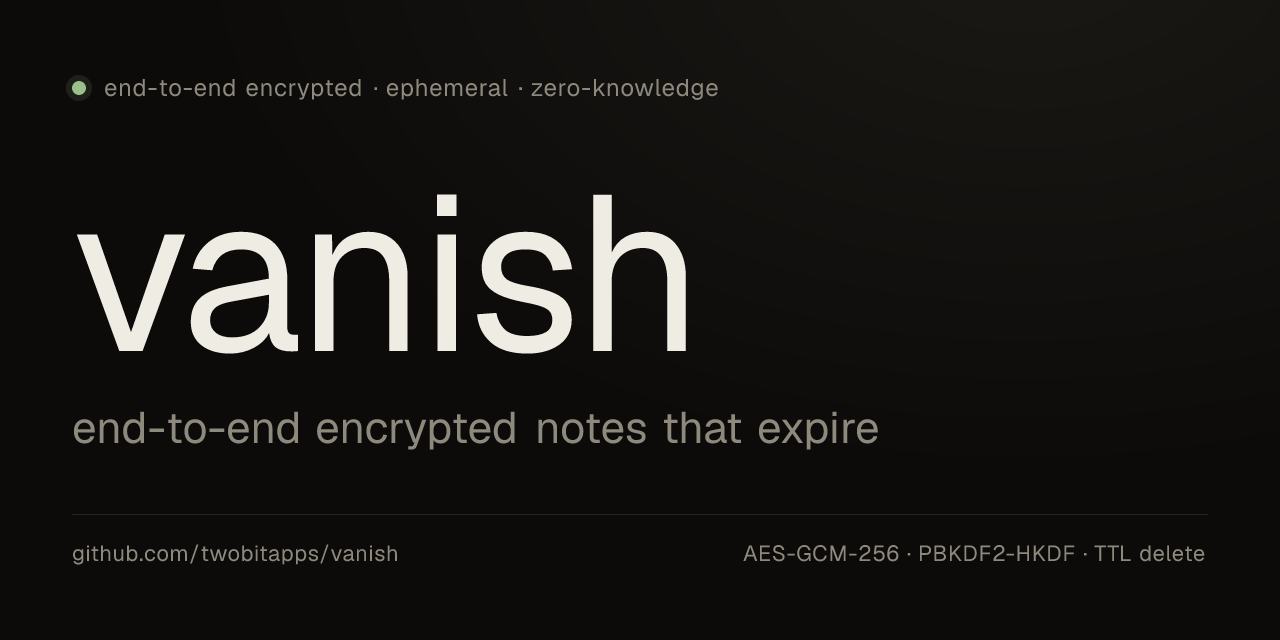
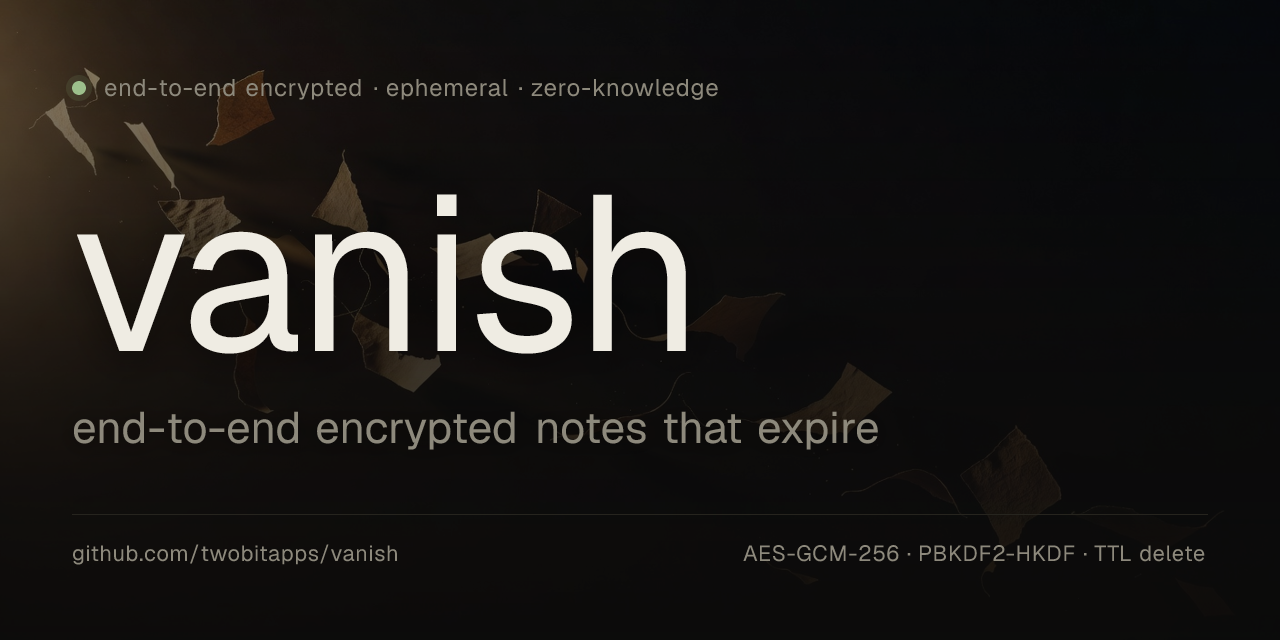
feat(og): composite Grok Imagine AI art into OG cards
- 4 candidate backgrounds generated via xAI Grok Imagine (grok-imagine-image)
  · wisps of warm ink (home)
  · paper fragments blowing apart (github)
  · horizontal warm streaks (security)
  · column of light (terms — unused, kept for future)
- OG route composites: fullbleed bg (opacity 0.78) + dark gradient overlay
  for text legibility, typographic foreground unchanged
- terms card stays typographic-only (appropriate for legal copy)
- /api/og cached s-maxage=3600; no-store limited to mutation/read endpoints

diff --git a/app/api/og/route.tsx b/app/api/og/route.tsx
@@ -12,6 +12,13 @@ const SIZES: Record<Variant, { width: number; height: number }> = {
   terms: { width: 1200, height: 630 },
 };
 
+const BG_FOR_VARIANT: Record<Variant, string | null> = {
+  default: '/art/01-wisps.jpg',
+  github: '/art/02-paper.jpg',
+  security: '/art/03-waves.jpg',
+  terms: null,
+};
+
 function textFor(variant: Variant): { title: string; sub: string; foot: string } {
   switch (variant) {
     case 'github':
@@ -43,12 +50,17 @@ function textFor(variant: Variant): { title: string; sub: string; foot: string }
 
 export async function GET(req: NextRequest) {
   const url = new URL(req.url);
-  const variant = (url.searchParams.get('v') as Variant | null) ?? 'default';
-  const safeVariant: Variant = ['default', 'github', 'security', 'terms'].includes(variant)
-    ? variant
+  const raw = url.searchParams.get('v') ?? 'default';
+  const variant: Variant = (['default', 'github', 'security', 'terms'] as const).includes(
+    raw as Variant
+  )
+    ? (raw as Variant)
     : 'default';
-  const { width, height } = SIZES[safeVariant];
-  const { title, sub, foot } = textFor(safeVariant);
+
+  const { width, height } = SIZES[variant];
+  const { title, sub, foot } = textFor(variant);
+  const bgPath = BG_FOR_VARIANT[variant];
+  const bgUrl = bgPath ? new URL(bgPath, url.origin).toString() : null;
 
   const bg = '#0c0b0a';
   const text = '#efece3';
@@ -59,95 +71,133 @@ export async function GET(req: NextRequest) {
     "'Iowan Old Style', 'Charter', 'Apple Garamond', 'Baskerville', Georgia, serif";
   const mono = 'ui-monospace, SFMono-Regular, Menlo, Monaco, Consolas, monospace';
 
+  const titleSize = variant === 'default' || variant === 'github' ? 220 : 148;
+
   return new ImageResponse(
     (
       <div
         style={{
           width: '100%',
           height: '100%',
+          position: 'relative',
           display: 'flex',
-          flexDirection: 'column',
-          justifyContent: 'space-between',
           backgroundColor: bg,
-          backgroundImage:
-            'radial-gradient(1400px 900px at 80% -10%, #1a1915 0%, #0c0b0a 60%)',
-          padding: 72,
           color: text,
           fontFamily: serif,
         }}
       >
-        <div
-          style={{
-            display: 'flex',
-            alignItems: 'center',
-            gap: 18,
-            color: muted,
-            fontFamily: mono,
-            fontSize: 24,
-            letterSpacing: 0.8,
-          }}
-        >
-          <div
+        {bgUrl ? (
+          <img
+            src={bgUrl}
+            width={width}
+            height={height}
             style={{
-              width: 14,
-              height: 14,
-              borderRadius: 999,
-              backgroundColor: ok,
-              boxShadow: `0 0 0 6px rgba(156,192,140,0.12)`,
+              position: 'absolute',
+              top: 0,
+              left: 0,
+              width: '100%',
+              height: '100%',
+              objectFit: 'cover',
+              opacity: 0.78,
             }}
           />
-          <span>end-to-end encrypted · ephemeral · zero-knowledge</span>
-        </div>
+        ) : null}
+        <div
+          style={{
+            position: 'absolute',
+            top: 0,
+            left: 0,
+            width: '100%',
+            height: '100%',
+            backgroundImage:
+              'linear-gradient(180deg, rgba(12,11,10,0.28) 0%, rgba(12,11,10,0.72) 55%, rgba(12,11,10,0.92) 100%)',
+          }}
+        />
 
         <div
           style={{
+            position: 'relative',
+            width: '100%',
+            height: '100%',
+            padding: 72,
             display: 'flex',
             flexDirection: 'column',
-            gap: 18,
-          }}
-        >
-          <div
-            style={{
-              fontFamily: serif,
-              fontSize: safeVariant === 'default' || safeVariant === 'github' ? 220 : 148,
-              lineHeight: 1,
-              letterSpacing: -4,
-              color: text,
-            }}
-          >
-            {title}
-          </div>
-          <div
-            style={{
-              fontFamily: serif,
-              fontSize: 44,
-              color: muted,
-              lineHeight: 1.2,
-              maxWidth: width - 144,
-            }}
-          >
-            {sub}
-          </div>
-        </div>
-
-        <div
-          style={{
-            display: 'flex',
             justifyContent: 'space-between',
-            alignItems: 'flex-end',
-            fontFamily: mono,
-            fontSize: 22,
-            color: muted,
-            letterSpacing: 0.6,
-            borderTop: `1px solid ${border}`,
-            paddingTop: 24,
           }}
         >
-          <span>{foot}</span>
-          <span>AES-GCM-256 · PBKDF2-HKDF · TTL delete</span>
+          <div
+            style={{
+              display: 'flex',
+              alignItems: 'center',
+              gap: 18,
+              color: muted,
+              fontFamily: mono,
+              fontSize: 24,
+              letterSpacing: 0.8,
+            }}
+          >
+            <div
+              style={{
+                width: 14,
+                height: 14,
+                borderRadius: 999,
+                backgroundColor: ok,
+                boxShadow: `0 0 0 6px rgba(156,192,140,0.12)`,
+              }}
+            />
+            <span>end-to-end encrypted · ephemeral · zero-knowledge</span>
+          </div>
+
+          <div style={{ display: 'flex', flexDirection: 'column', gap: 18 }}>
+            <div
+              style={{
+                fontFamily: serif,
+                fontSize: titleSize,
+                lineHeight: 1,
+                letterSpacing: -4,
+                color: text,
+                textShadow: '0 4px 40px rgba(0,0,0,0.6)',
+              }}
+            >
+              {title}
+            </div>
+            <div
+              style={{
+                fontFamily: serif,
+                fontSize: 44,
+                color: muted,
+                lineHeight: 1.2,
+                maxWidth: width - 144,
+                textShadow: '0 2px 20px rgba(0,0,0,0.6)',
+              }}
+            >
+              {sub}
+            </div>
+          </div>
+
+          <div
+            style={{
+              display: 'flex',
+              justifyContent: 'space-between',
+              alignItems: 'flex-end',
+              fontFamily: mono,
+              fontSize: 22,
+              color: muted,
+              letterSpacing: 0.6,
+              borderTop: `1px solid ${border}`,
+              paddingTop: 24,
+            }}
+          >
+            <span>{foot}</span>
+            <span>AES-GCM-256 · PBKDF2-HKDF · TTL delete</span>
+          </div>
         </div>
       </div>
     ),
-    { width, height }
+    {
+      width,
+      height,
+      headers: { 'Cache-Control': 'public, s-maxage=3600, max-age=3600' },
+    }
   );
 }
